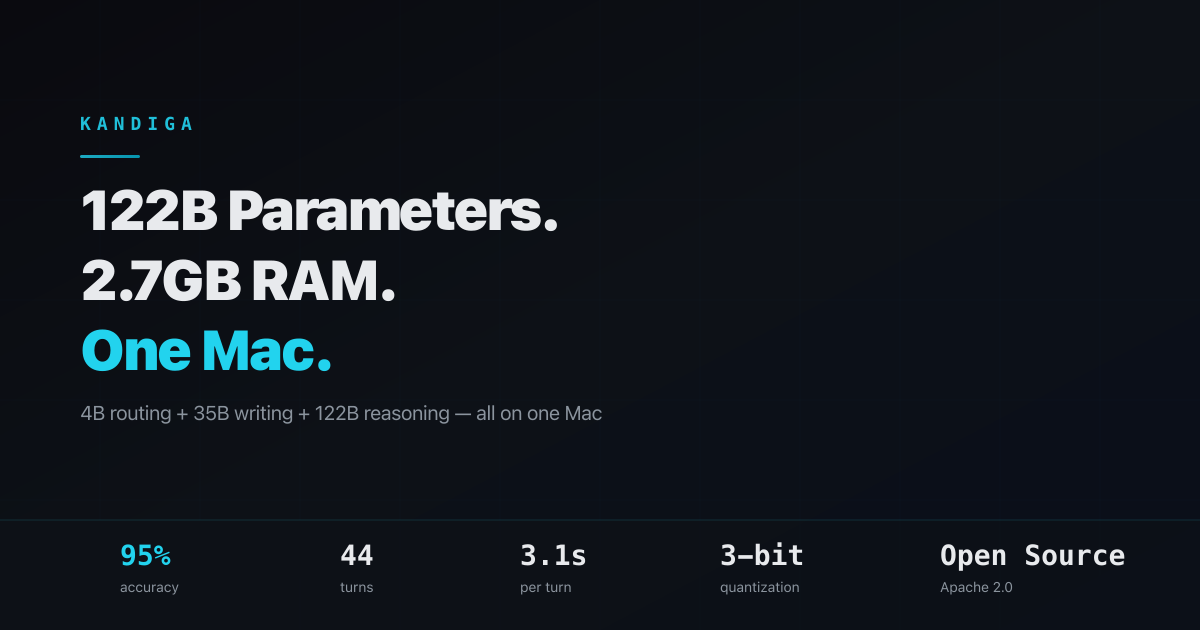
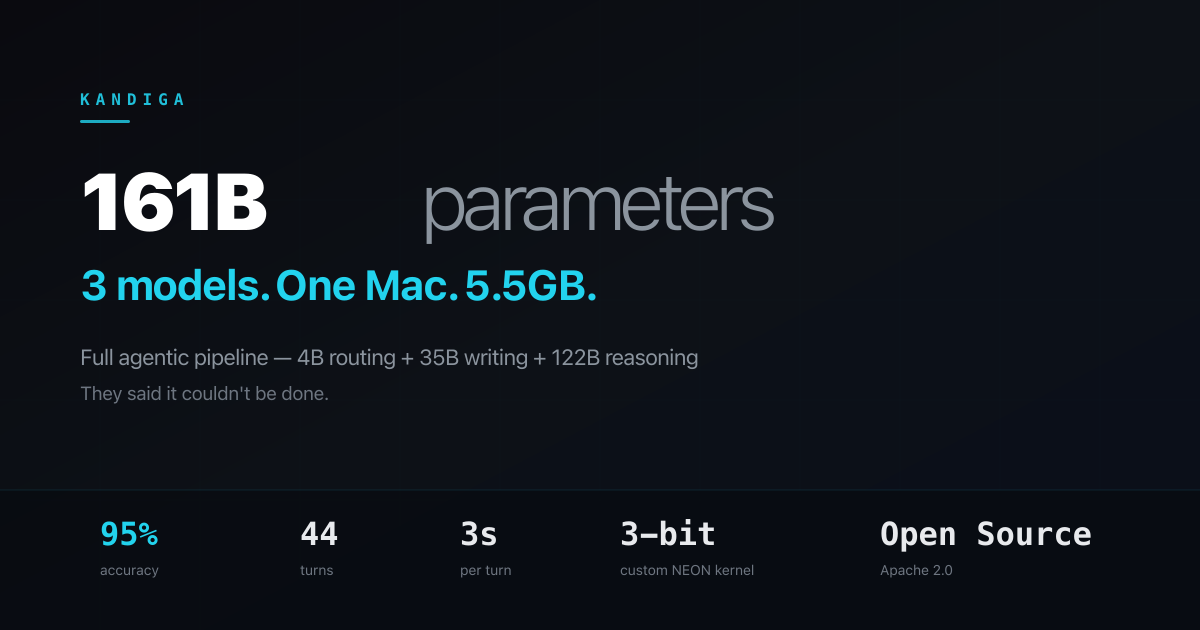
Blog at /blog/161b-one-mac + new OG image: 161B, 3 models, one Mac
- Route: /blog/161b-one-mac (supports future blog entries)
- OG title: "3 AI Models. 161B Parameters. One Mac. 5.5GB."
- OG image: bold 161B hero with stats bar
- "They said it couldn't be done."

diff --git a/index.html b/index.html
@@ -7,18 +7,18 @@
     <link rel="apple-touch-icon" href="/apple-touch-icon.png" />
     <meta name="viewport" content="width=device-width, initial-scale=1.0, viewport-fit=cover" />
     <meta name="theme-color" content="#06060b" />
-    <title>Kandiga — Run 122B AI Models in 2.7GB</title>
-    <meta name="description" content="Production AI agent running 35B + 122B models on a Mac Mini in under 6GB. 95% accuracy. 3-bit quantization. Persistent KV cache. Open source." />
-    <meta property="og:title" content="Kandiga — Run 122B AI Models in 2.7GB" />
-    <meta property="og:description" content="Production AI agent running 35B + 122B models on a Mac Mini in under 6GB. 95% accuracy. 3-bit quantization. Persistent KV cache. Open source." />
+    <title>Kandiga — 3 AI Models. 161B Parameters. One Mac.</title>
+    <meta name="description" content="Full agentic pipeline running 4B + 35B + 122B simultaneously in 5.5GB. 95% accuracy on 44 turns. Custom 3-bit NEON kernels. Open source." />
+    <meta property="og:title" content="3 AI Models. 161B Parameters. One Mac. 5.5GB." />
+    <meta property="og:description" content="Full agentic pipeline. 4B routing + 35B writing + 122B reasoning. 95% accuracy. 3s per turn. They said it couldn't be done." />
     <meta property="og:image" content="/og-image.png" />
     <meta property="og:url" content="https://kandiga.kantheon.com" />
     <meta property="og:type" content="website" />
     <meta property="og:image:width" content="1200" />
     <meta property="og:image:height" content="630" />
     <meta name="twitter:card" content="summary_large_image" />
-    <meta name="twitter:title" content="Kandiga — Run 122B AI Models in 2.7GB" />
-    <meta name="twitter:description" content="Production AI agent running 35B + 122B models on a Mac Mini in under 6GB." />
+    <meta name="twitter:title" content="3 AI Models. 161B Parameters. One Mac. 5.5GB." />
+    <meta name="twitter:description" content="Full agentic pipeline. 95% accuracy on 44 turns. Custom 3-bit NEON kernels. Open source." />
     <meta name="twitter:image" content="/og-image.png" />
   </head>
   <body>

diff --git a/src/components/Navbar.jsx b/src/components/Navbar.jsx
@@ -16,7 +16,7 @@ export default function Navbar() {
             ['Features', '#features'],
             ['Architecture', '#architecture'],
             ['Install', '#install'],
-            ['Blog', '/blog'],
+            ['Blog', '/blog/161b-one-mac'],
           ].map(([label, href]) => (
             <a key={label} href={href}
                className="text-[13px] text-[var(--text-muted)] hover:text-[var(--text)] transition-colors no-underline">
@@ -44,7 +44,7 @@ export default function Navbar() {
 
       {mobileOpen && (
         <div className="md:hidden border-t border-[var(--card-border)] bg-[var(--void)]/95 backdrop-blur-xl px-6 py-3">
-          {[['Features','#features'],['Architecture','#architecture'],['Install','#install'],['Blog','/blog']].map(([l,h]) => (
+          {[['Features','#features'],['Architecture','#architecture'],['Install','#install'],['Blog','/blog/161b-one-mac']].map(([l,h]) => (
             <a key={l} href={h} onClick={() => setMobileOpen(false)}
                className="block py-2 text-sm text-[var(--text-muted)] hover:text-[var(--text)] no-underline">{l}</a>
           ))}

diff --git a/src/App.jsx b/src/App.jsx
@@ -42,7 +42,7 @@ function App() {
     <BrowserRouter>
       <Routes>
         <Route path="/" element={<HomePage />} />
-        <Route path="/blog" element={<BlogPost />} />
+        <Route path="/blog/161b-one-mac" element={<BlogPost />} />
       </Routes>
     </BrowserRouter>
   )
